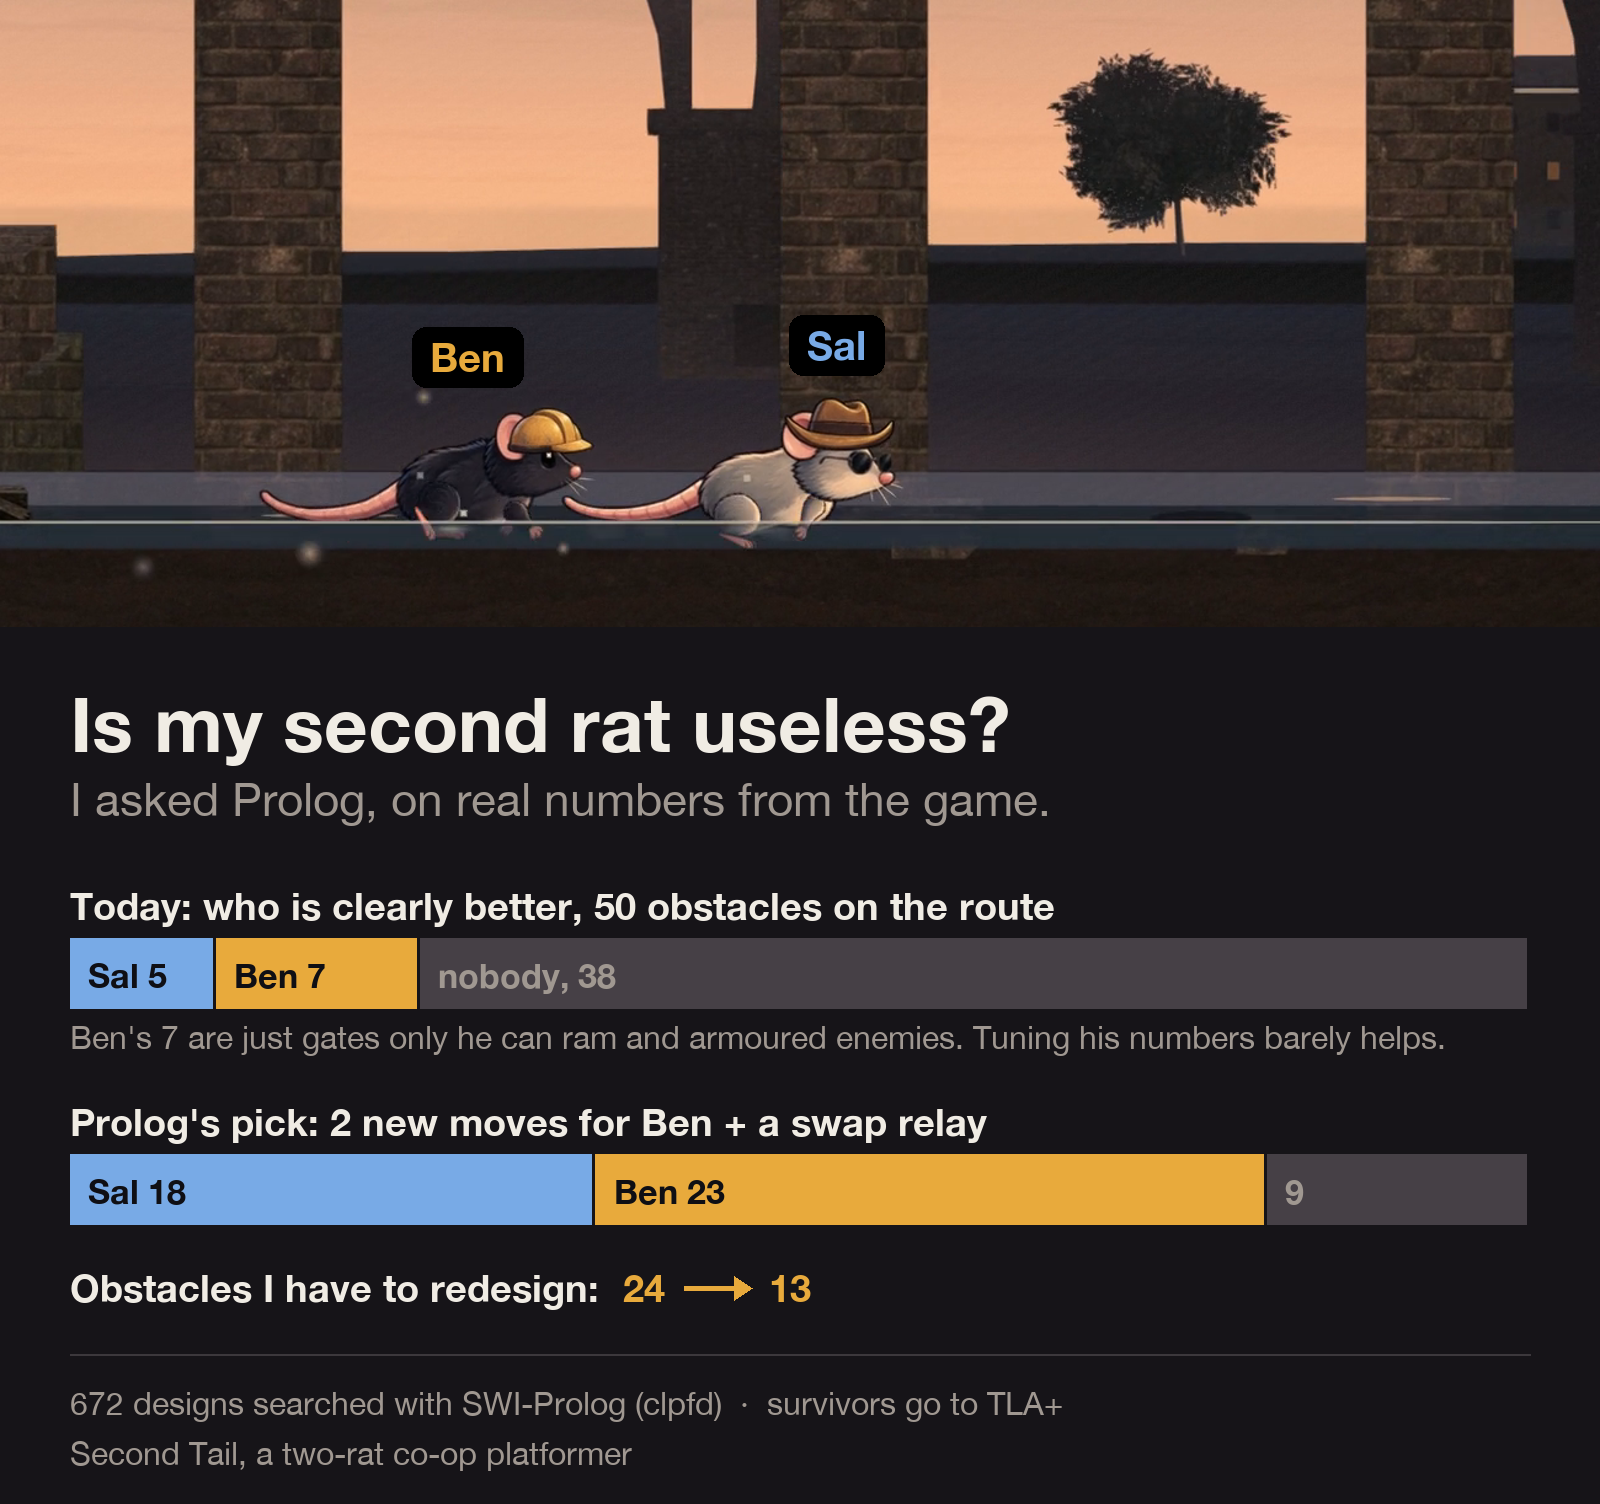
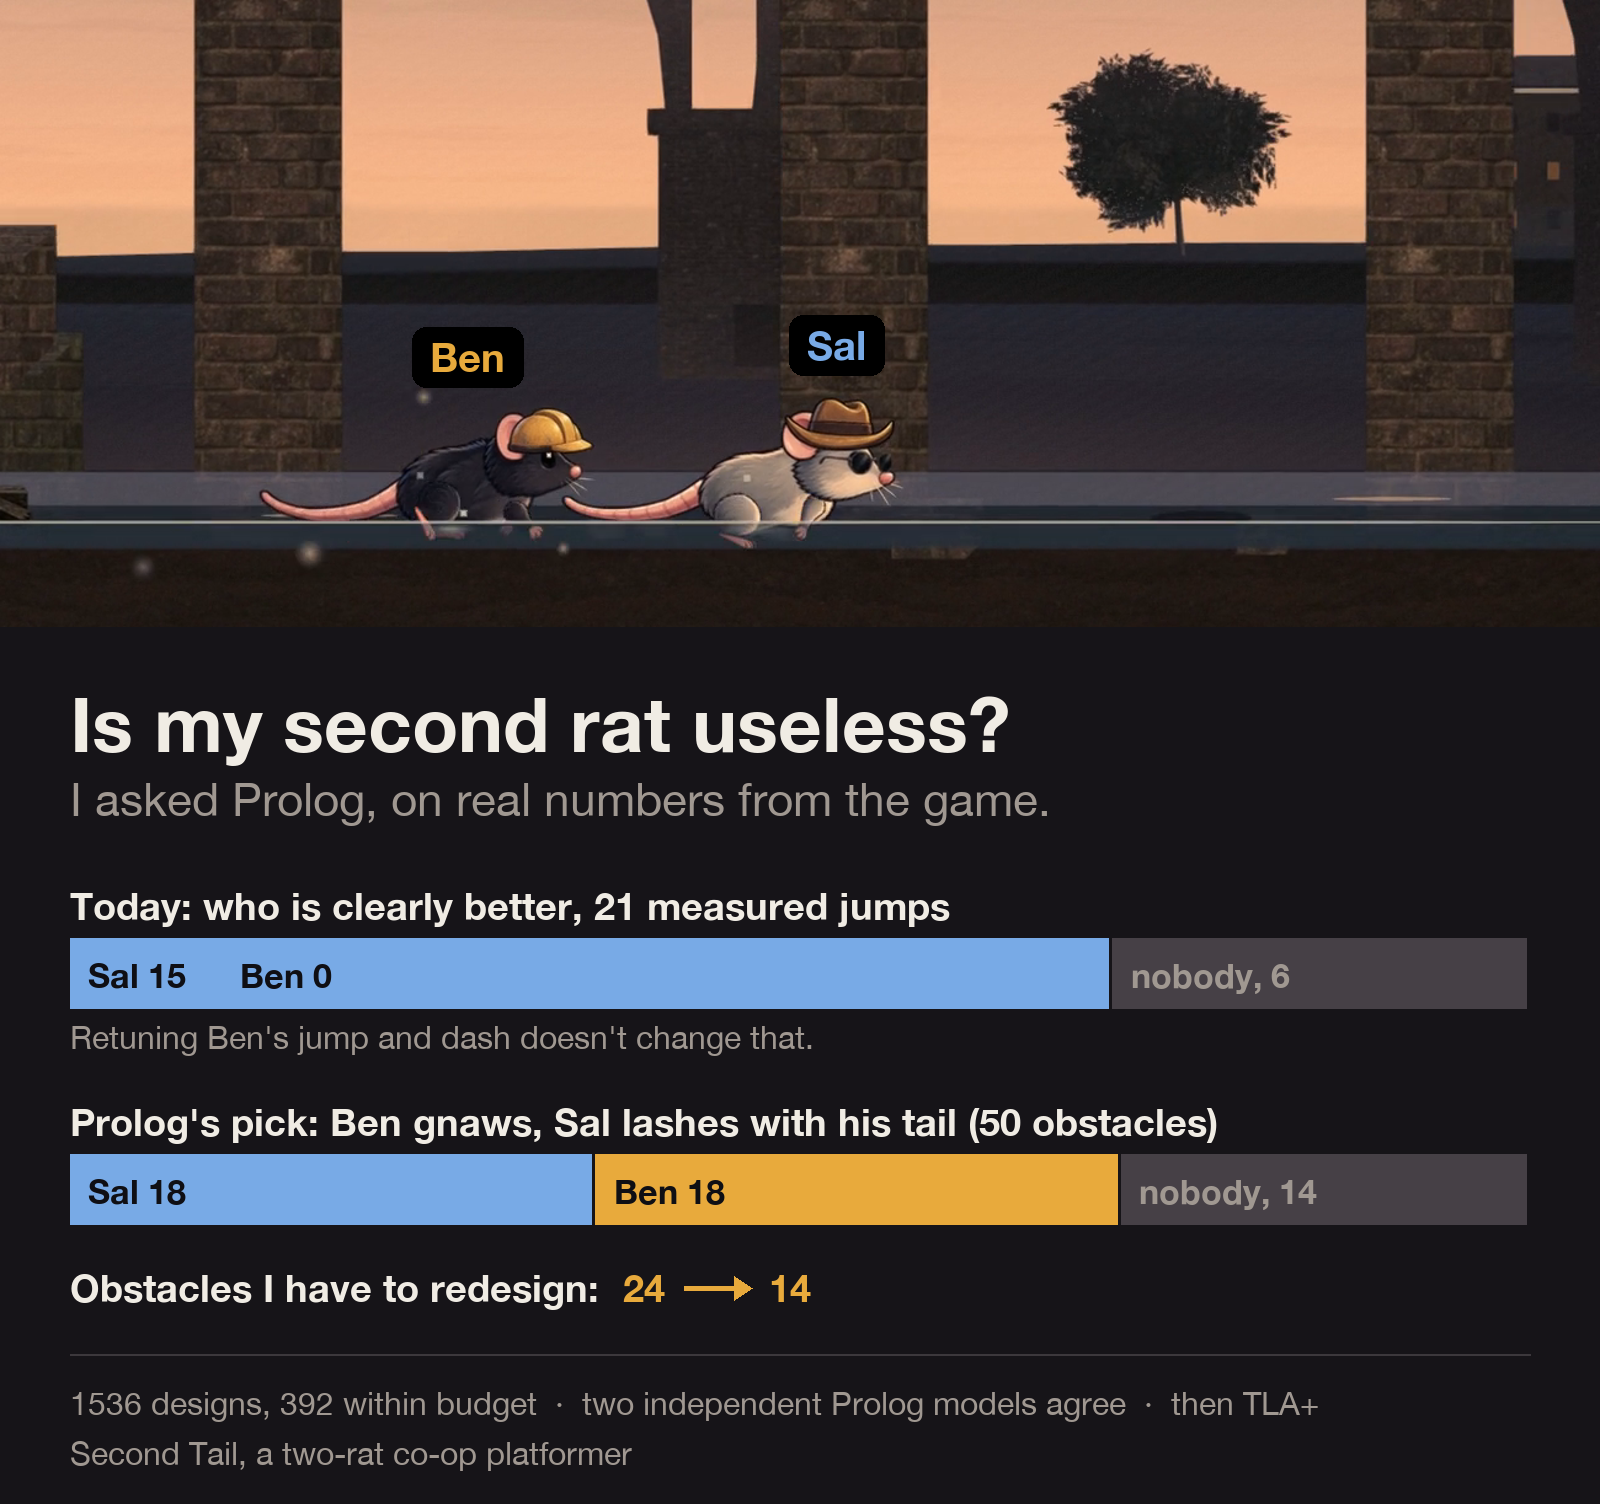
case: cross-checked numbers; the second model caught a bug in the first

Changed region(s): [[0.0625, 0.5938, 0.9062, 0.8125], [0.0312, 0.9062, 0.6875, 0.9375], [0.7812, 0.9062, 0.8125, 0.9375]]

diff --git a/README.md b/README.md
@@ -25,20 +25,22 @@ Skip it for feel, geometry, visuals and timing polish, and for small input space
 
 ![Prolog result](case/prolog-result.png)
 
-**Prolog** searched 672 combinations (112 ability sets, 6 retunings of Ben's numbers):
+**Prolog** searched 1536 layouts (8 candidate abilities, retunings of Ben's numbers); 672 are learnable, 392 fit a budget of 20 redesigned obstacles:
 
-- Today Sal is clearly better on 5 of 50 obstacles and Ben on 7, and Ben's 7 are only gates he must ram and armoured enemies. The feeling was right.
-- Retuning Ben's jump and dash barely changes anything: Sal's double jump is never worse than Ben's dash on any measured jump.
-- Two new moves for Ben plus a swap relay give Sal 18 and Ben 23, and cut the obstacles I have to redesign from 24 to 13.
+- Today Sal is clearly better on 15 of 21 measured jumps, Ben on none. The feeling was right, and retuning Ben's jump and dash does not change it.
+- None of the 1536 layouts reaches the balance without redesigning obstacles.
+- Best: Ben gnaws, Sal lashes with his tail. Each rat gets the edge on 18 obstacles, and I redesign 14 obstacles instead of 24.
+
+**The model caught itself.** I wrote the Prolog model twice, the second one fully reified, and made them agree on every layout. They did not at first: the second one found a bug in the first, `forall(..., T = 0)` never bound the clpfd variable, so an ability nobody teaches came for free. That is the first pitfall listed in `SKILL.md`. The early numbers I posted were wrong because of it; the ones above are from the fixed, cross-checked run.
 
 ![TLA+ result](case/tla-result.png)
 
 **TLA+** on three real boss phases (tank valve, helicopter, duel):
 
-- Today one rat wins every phase without a single swap. The tank goes down in 9 steps.
-- With Prolog's top 5 layouts no solo win exists on any phase, and the pair still wins (18 to 47 steps, 4 to 12 swaps).
+- Today one rat wins every phase without a single swap (9, 18 and 12 steps).
+- Under every Prolog proposal no solo win exists, and the pair still wins (18 to 45 steps, 3 to 11 swaps).
+- Surprise: the pair itself needs no new ability. Ben's dash opens and Sal's double jump finishes once the attack windows are long enough: at least 1.0 s in the duel and 1.5 s at the tank. The helicopter needs at least 3 hearts, because swapping is blocked inside its grabs. New abilities only add more ways to combine.
 - Control runs fail as they should: give the opener and the finisher to the same rat and TLC finds a solo win again.
-- The sweeps give the limits: the pair only works with vulnerable windows of at least 1.0 s (duel) and 1.5 s (tank), and the helicopter needs at least 3 hearts.
 
 Full numbers and caveats: [case/RESULTS.md](case/RESULTS.md). Some inputs are designer assumptions (enemy counts, scores of non-jump obstacles), and the report says which.
 

diff --git a/case/RESULTS.md b/case/RESULTS.md
@@ -66,3 +66,22 @@ modelled from the code: the tank's valve window, a helicopter phase (Q is blocke
 
 Still running: a per-rule funnel (how many layouts pass a, b, c, d separately and together) and a second, fully
 reified clpfd implementation that must agree with the first on all 672 results.
+
+## Final (08.11, 02:05): two independent models, and they corrected the early numbers
+
+The early run above is superseded. A second, fully reified clpfd implementation (every ability a 0/1 bit, "ability
+covers category" via #<==>) had to agree with the first on every layout of all three profiles. It did not at first:
+the cross-check found a real bug in the first model, `forall(..., T = 0)` never bound the clpfd variable, so an ability
+with no teaching obstacle was counted as taught for free (exactly the pitfall the skill warns about). After the fix the
+two agree on all results (self-test 12/12).
+
+- Funnel (profile b, budget 20): 1536 raw layouts -> 672 after learnability (d) -> 392 after the redesign budget.
+  Rules (a) comfort and (c) bosses-can-be-a-mix removed nothing: they hold for every layout. No layout reaches the
+  advantage band without redesigning obstacles (0 of 1536).
+- Today: of 21 measured jumps Sal is clearly better on 15, Ben on 0. Retuning Ben's numbers does not change that.
+- Best: Ben gnaw (hold F) + Sal tail lash (Shift): 14 of 50 obstacles redesigned (vs 24 with no new ability), edges
+  18 and 18, 3 boss patterns. Cheapest meaningful: Ben gnaw only, 16 redesigns, one new key.
+- TLC on 3 boss phases: today a one-rat win with zero Q exists on all three (9 / 18 / 12 steps); under every proposal
+  there is none, and a mixed win exists (18-45 steps, 3-11 Q). Surprise from TLC: the mix itself needs no new ability
+  ("Ben's dash opens, Sal's double jump finishes" already works once the windows are >= 1.0 s); new abilities only add
+  more mix patterns. Sweeps: the duel needs a window >= 1.0 s, the tank >= 1.5 s; the helicopter needs >= 3 hearts.
